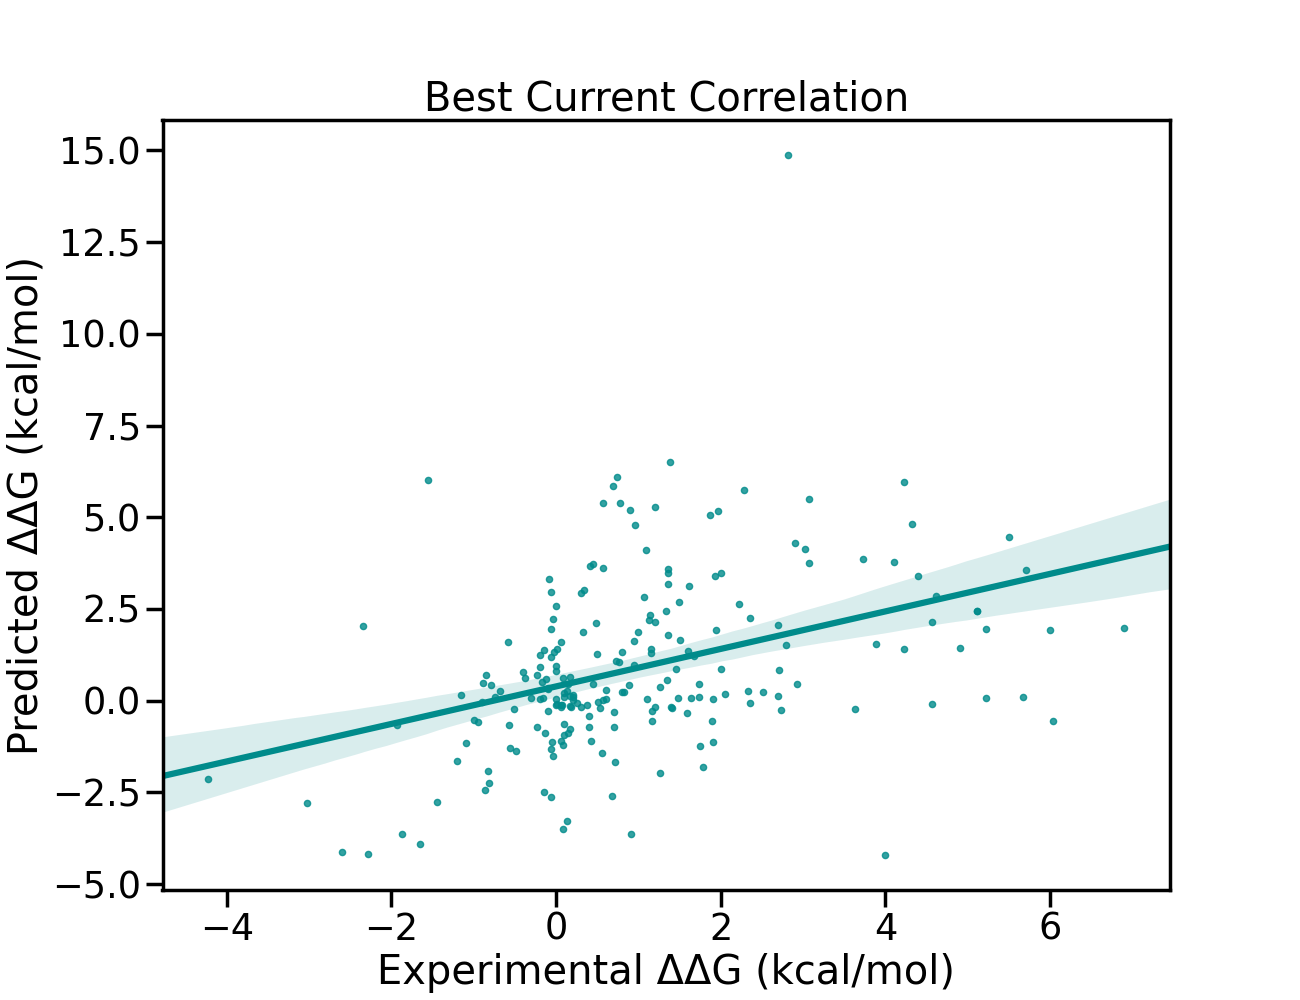
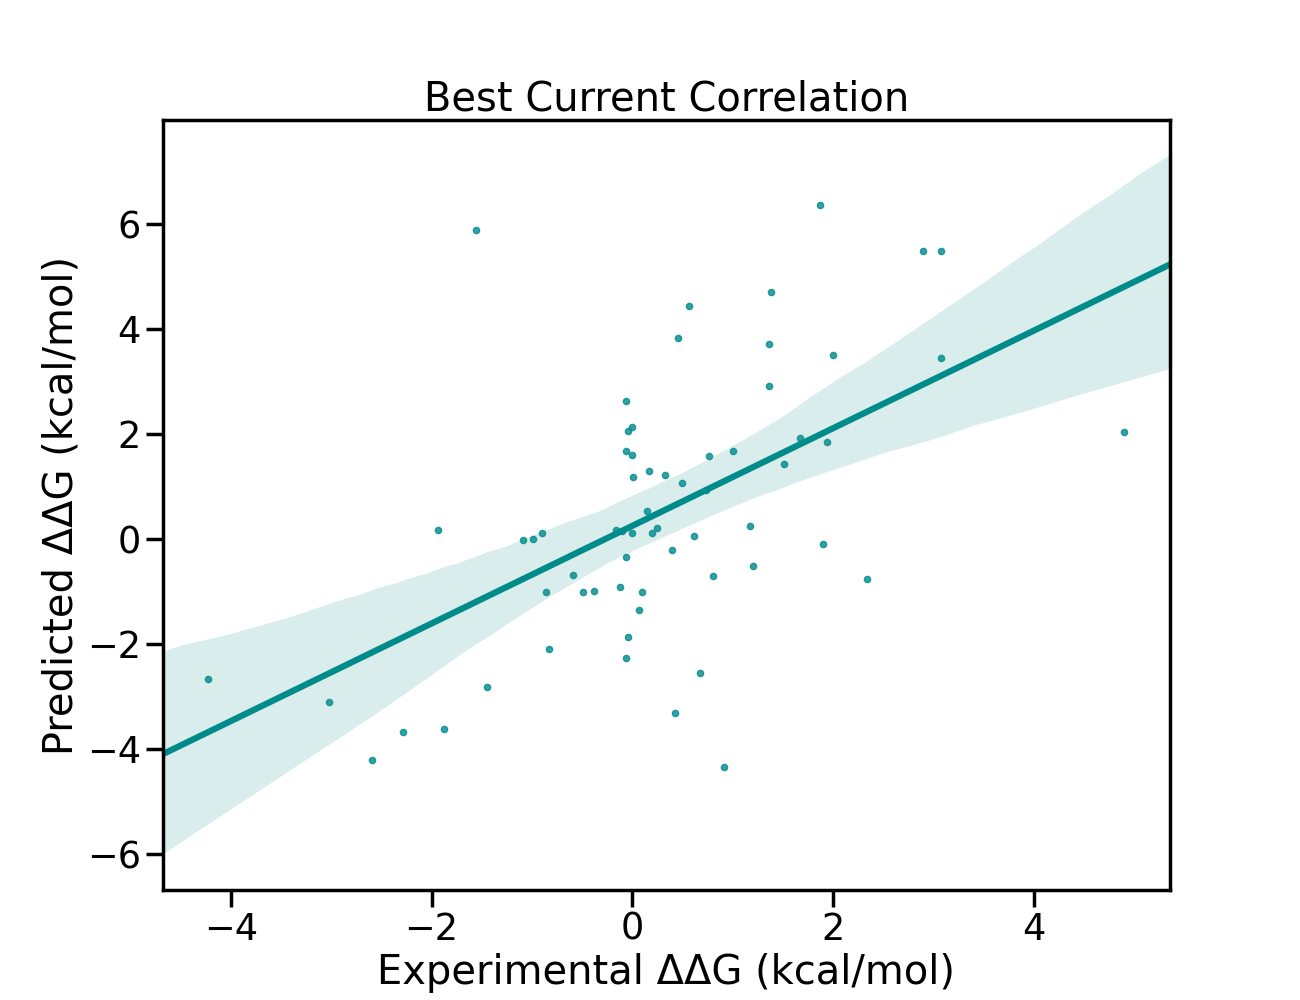
run_flex_ddg.py changes

diff --git a/run_flex_ddg.py b/run_flex_ddg.py
@@ -78,13 +78,13 @@ except getopt.error as err:
 
 rosetta_scripts_path = os.path.expanduser(
     "~/rosetta/source/bin/rosetta_scripts")
-nstruct = 3  # Normally 35
-max_minimization_iter = 5  # Normally 5000
-abs_score_convergence_thresh = 200.0  # Normally 1.0
-number_backrub_trials = 10  # Normally 35000
+nstruct = 10  # Normally 35
+max_minimization_iter = 5000  # Normally 5000
+abs_score_convergence_thresh = 1.0  # Normally 1.0
+number_backrub_trials = 35000  # Normally 35000
 # Can be whatever you want, if you would like to see results from earlier time points in the backrub trajectory. 7000 is a reasonable number, to give you three checkpoints for a 35000 step run, but you could also set it to 35000 for quickest run time (as the final minimization and packing steps will only need to be run one time).
-backrub_trajectory_stride = 5
-path_to_script = 'ddG-backrub.xml'
+backrub_trajectory_stride = 35000
+path_to_script = 'ddG-backrub_og.xml'
 # Getting data from the dataset
 data = pd.read_csv("./raw_datasets/use_this_data.csv")
 points = data.loc[data["Interface?"] == True] # TESTING
@@ -96,14 +96,13 @@ if not os.path.isfile(rosetta_scripts_path):
     raise Exception('Rosetta scripts missing')
 
 
-def run_flex_ddg_saturation(name, input_path, input_pdb_path, jumps, mut_info, nstruct_i):
+def run_flex_ddg_saturation(name, input_pdb_path, jump, mut_info, nstruct_i):
     output_directory = os.path.join('output', os.path.join(
-        '%s_%s' % (name), '%02d' % nstruct_i))
+        '%s' % (name), '%02d' % nstruct_i))
     if not os.path.isdir(output_directory):
         os.makedirs(output_directory)
 
-    resfile_path = os.path.join(output_directory, 'mutate_%s.resfile' % (
-        name))
+    resfile_path = os.path.join(output_directory, 'mutate_%s.resfile' % (name))
     with open(resfile_path, 'w') as f:
         f.write('NATRO\nstart\n')
         for mut in mut_info:
@@ -181,7 +180,7 @@ if __name__ == '__main__':
                 residues_to_mutate.append((chains, pos, mut, name_muts))
 
             for info in residues_to_mutate:
-                cases.append(('{}_{}'.format(pdb, info[3]), "./inputs/", path, jump, info[:3], nstruct_i))
+                cases.append(('{}_{}'.format(pdb, info[3]), path, jump, info[:3], nstruct_i))
 
     if use_multiprocessing:
         pool = multiprocessing.Pool(processes=min(

diff --git a/stats.py b/stats.py
@@ -239,15 +239,15 @@ plt.clf()
 ## Correlation Plot
 
 ddgs = pd.read_excel("./FLEX_RUNS.xlsx", "Sheet1")
-ddgs = ddgs.dropna(subset="8 5 35k r s")
+ddgs = ddgs.dropna(subset="8 10 35k r s")
 print(ddgs.head())
-y, X = dmatrices("Q('8 5 35k r s') ~ Q('ddG(kcal/mol)')",
+y, X = dmatrices("Q('8 10 35k r s') ~ Q('ddG(kcal/mol)')",
                  data=ddgs, return_type='dataframe')
 model = sm.OLS(y, X)
 results = model.fit()
 print(results.summary())
 fig, ax = plt.subplots(figsize=(13, 10))
-sns.regplot(y="8 5 35k r s", x="ddG(kcal/mol)", data=ddgs, color="darkcyan", truncate=False, scatter_kws={"s": 20})
+sns.regplot(y="8 10 35k r s", x="ddG(kcal/mol)", data=ddgs, color="darkcyan", truncate=False, scatter_kws={"s": 20})
 plt.title("Best Current Correlation")
 plt.xlabel("Experimental ΔΔG (kcal/mol)")
 plt.ylabel("Predicted ΔΔG (kcal/mol)")
